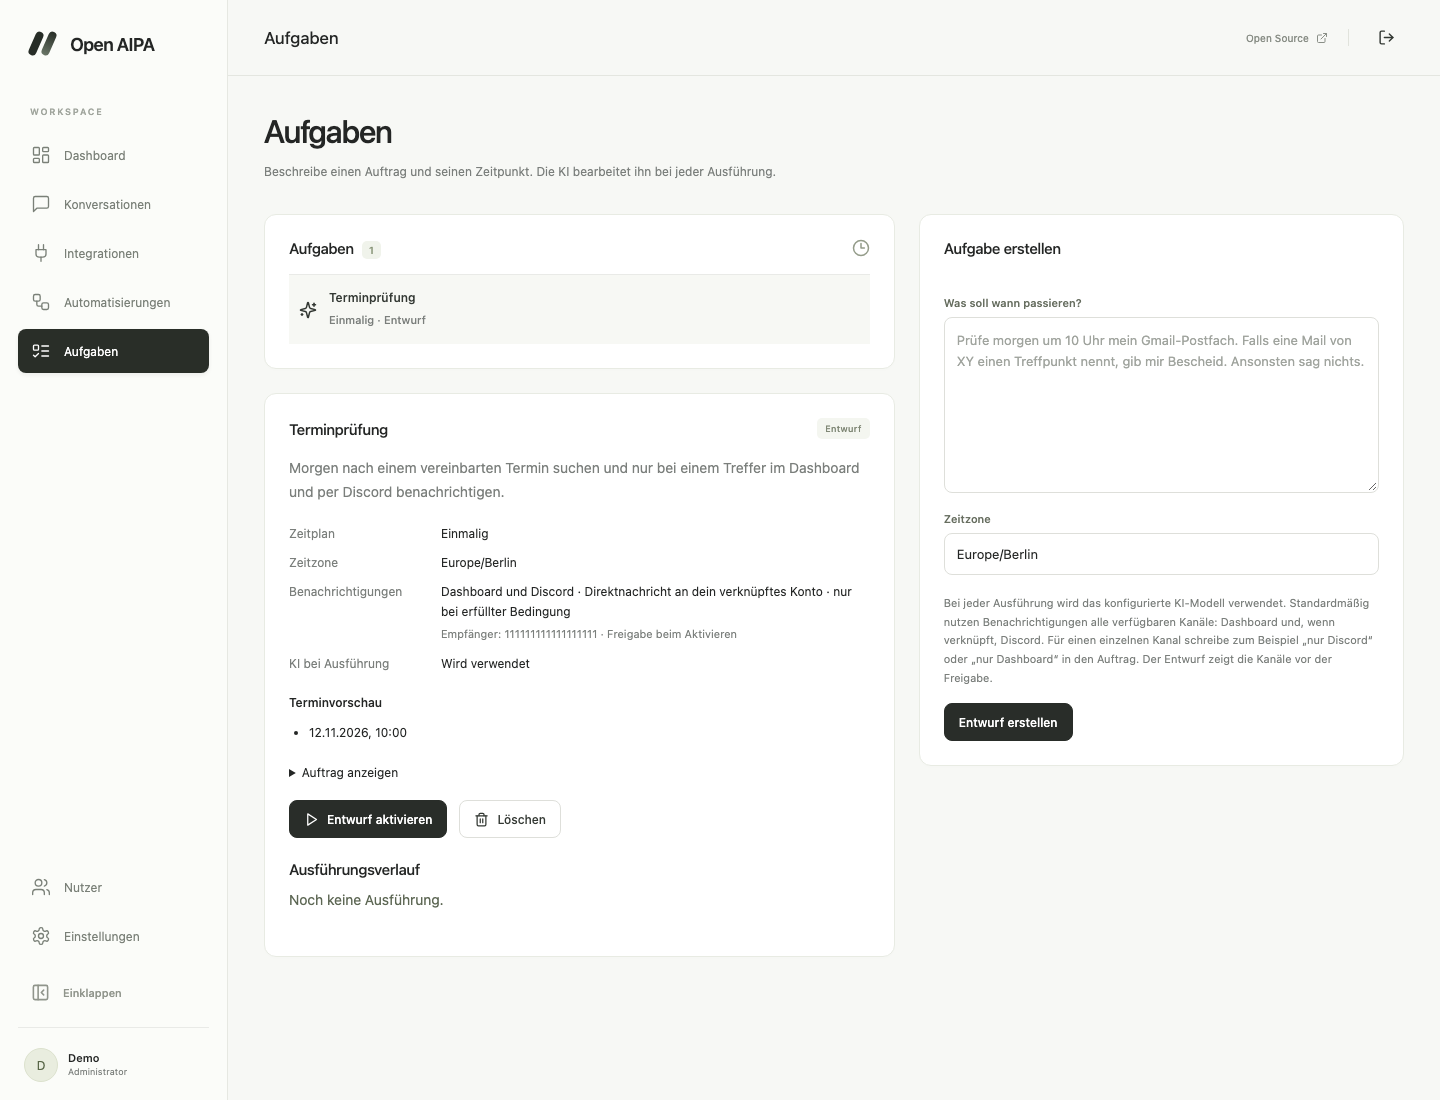
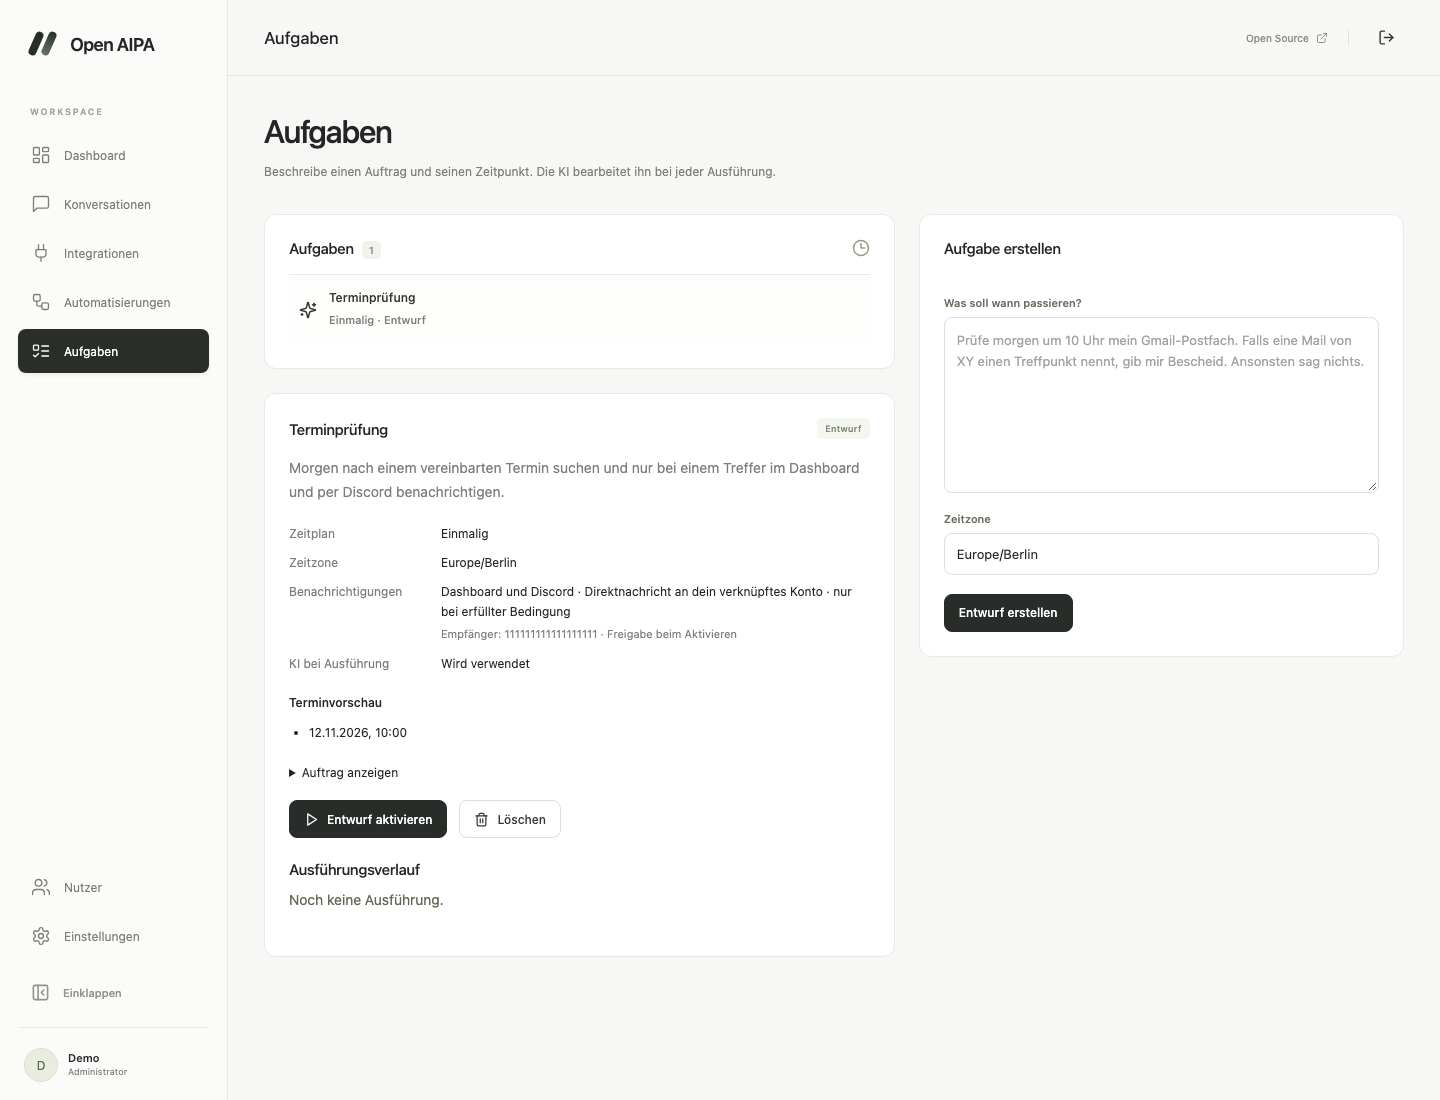
Remove explanation below scheduled job timezone

Changed region(s): [[0.6562, 0.5255, 0.9375, 0.68]]

diff --git a/web/pages/ScheduledJobs.tsx b/web/pages/ScheduledJobs.tsx
@@ -405,14 +405,6 @@ export function ScheduledJobs({ kind }: { kind: 'automation' | 'task' }) {
                   KI-Aufrufe im Skript erlauben
                 </label>
               )}
-              <p className="job-hint">
-                {scriptMode
-                  ? 'Das Skript nutzt deine verbundenen Integrationen. Ohne diese Freigabe sind KI-Aufrufe bei der Ausführung gesperrt.'
-                  : 'Bei jeder Ausführung wird das konfigurierte KI-Modell verwendet.'}{' '}
-                Standardmäßig nutzen Benachrichtigungen alle verfügbaren Kanäle: Dashboard und, wenn
-                verknüpft, Discord. Für einen einzelnen Kanal schreibe zum Beispiel „nur Discord“
-                oder „nur Dashboard“ in den Auftrag. Der Entwurf zeigt die Kanäle vor der Freigabe.
-              </p>
               {question && (
                 <div className="notice" role="status">
                   {question}
